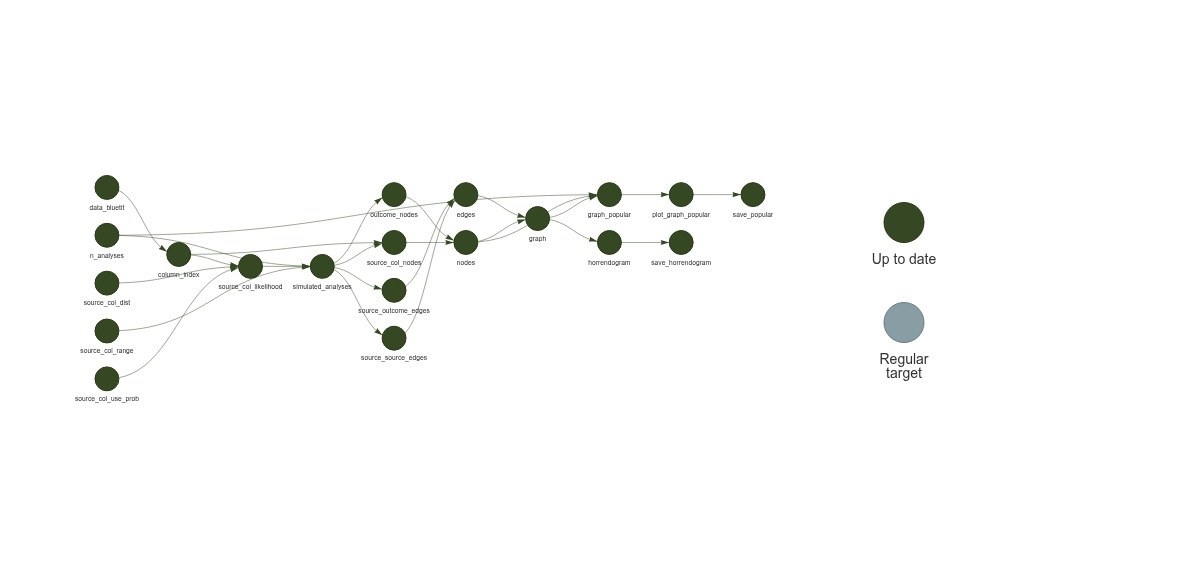
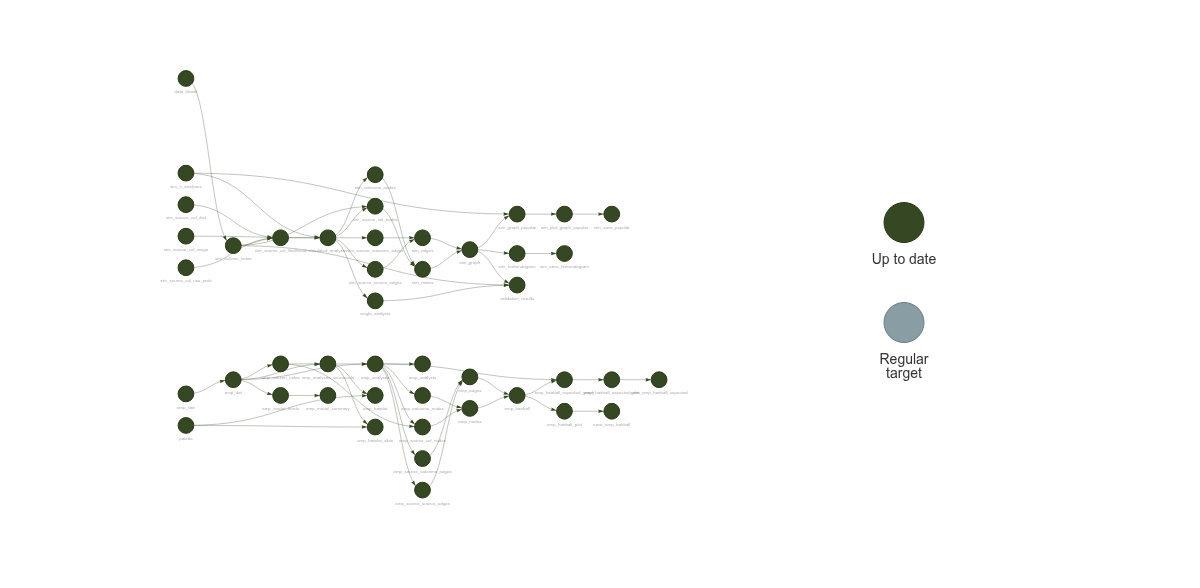
#15 isolated simulation docs now we are developing with real data

diff --git a/vis/pipeline.html b/vis/pipeline.html
@@ -5330,9 +5330,9 @@ HTMLWidgets.widget({
 </head>
 <body style="background-color: white;">
 <div id="htmlwidget_container">
-  <div class="visNetwork html-widget html-fill-item" id="htmlwidget-a8fcb23cf56f81273080" style="width:960px;height:500px;"></div>
+  <div class="visNetwork html-widget html-fill-item" id="htmlwidget-aaece594190543b29e51" style="width:960px;height:500px;"></div>
 </div>
-<script type="application/json" data-for="htmlwidget-a8fcb23cf56f81273080">{"x":{"nodes":{"name":["column_index","data_bluetit","edges","graph","graph_popular","horrendogram","n_analyses","nodes","outcome_nodes","plot_graph_popular","save_horrendogram","save_popular","simulated_analyses","source_col_dist","source_col_likelihood","source_col_nodes","source_col_range","source_col_use_prob","source_outcome_edges","source_source_edges"],"type":["stem","stem","stem","stem","stem","stem","stem","stem","stem","stem","stem","stem","stem","stem","stem","stem","stem","stem","stem","stem"],"description":[null,null,null,null,null,null,null,null,null,null,null,null,null,null,null,null,null,null,null,null],"status":["uptodate","uptodate","uptodate","uptodate","uptodate","uptodate","uptodate","uptodate","uptodate","uptodate","uptodate","uptodate","uptodate","uptodate","uptodate","uptodate","uptodate","uptodate","uptodate","uptodate"],"seconds":[0.002,0.363,0.045,0.004,0.01,0.063,0,0.004,0.014,0.057,0.962,0.749,0.428,0.17,0.013,0.022,0,0,0.026,1.937],"bytes":[624,71603,1104,2062,706,176847,53,761,221,169753,73,68,1655,109,687,709,55,115,1744,3802],"branches":[null,null,null,null,null,null,null,null,null,null,null,null,null,null,null,null,null,null,null,null],"label":["column_index","data_bluetit","edges","graph","graph_popular","horrendogram","n_analyses","nodes","outcome_nodes","plot_graph_popular","save_horrendogram","save_popular","simulated_analyses","source_col_dist","source_col_likelihood","source_col_nodes","source_col_range","source_col_use_prob","source_outcome_edges","source_source_edges"],"color":["#354823","#354823","#354823","#354823","#354823","#354823","#354823","#354823","#354823","#354823","#354823","#354823","#354823","#354823","#354823","#354823","#354823","#354823","#354823","#354823"],"id":["column_index","data_bluetit","edges","graph","graph_popular","horrendogram","n_analyses","nodes","outcome_nodes","plot_graph_popular","save_horrendogram","save_popular","simulated_analyses","source_col_dist","source_col_likelihood","source_col_nodes","source_col_range","source_col_use_prob","source_outcome_edges","source_source_edges"],"level":[2,1,6,7,8,8,1,6,5,9,9,10,4,1,3,5,1,1,5,5],"shape":["dot","dot","dot","dot","dot","dot","dot","dot","dot","dot","dot","dot","dot","dot","dot","dot","dot","dot","dot","dot"]},"edges":{"from":["data_bluetit","source_outcome_edges","source_source_edges","edges","nodes","graph","n_analyses","nodes","graph","outcome_nodes","source_col_nodes","simulated_analyses","graph_popular","horrendogram","plot_graph_popular","n_analyses","source_col_range","source_col_likelihood","column_index","source_col_dist","source_col_use_prob","column_index","simulated_analyses","simulated_analyses","simulated_analyses"],"to":["column_index","edges","edges","graph","graph","graph_popular","graph_popular","graph_popular","horrendogram","nodes","nodes","outcome_nodes","plot_graph_popular","save_horrendogram","save_popular","simulated_analyses","simulated_analyses","simulated_analyses","source_col_likelihood","source_col_likelihood","source_col_likelihood","source_col_nodes","source_col_nodes","source_outcome_edges","source_source_edges"],"color":["#354823","#354823","#354823","#354823","#354823","#354823","#354823","#354823","#354823","#354823","#354823","#354823","#354823","#354823","#354823","#354823","#354823","#354823","#354823","#354823","#354823","#354823","#354823","#354823","#354823"],"arrows":["to","to","to","to","to","to","to","to","to","to","to","to","to","to","to","to","to","to","to","to","to","to","to","to","to"]},"nodesToDataframe":true,"edgesToDataframe":true,"options":{"width":"100%","height":"100%","nodes":{"shape":"dot","physics":false},"manipulation":{"enabled":false},"edges":{"smooth":{"type":"cubicBezier","forceDirection":"horizontal"}},"physics":{"stabilization":false},"interaction":{"zoomSpeed":1},"layout":{"hierarchical":{"enabled":true,"levelSeparation":150,"direction":"LR"}}},"groups":null,"width":null,"height":null,"idselection":{"enabled":false,"style":"width: 150px; height: 26px","useLabels":true,"main":"Select by id"},"byselection":{"enabled":false,"style":"width: 150px; height: 26px","multiple":false,"hideColor":"rgba(200,200,200,0.5)","highlight":false},"main":{"text":"","style":"font-family:Georgia, Times New Roman, Times, serif;font-weight:bold;font-size:20px;text-align:center;"},"submain":null,"footer":null,"background":"rgba(0, 0, 0, 0)","highlight":{"enabled":true,"hoverNearest":false,"degree":{"from":1,"to":1},"algorithm":"hierarchical","hideColor":"rgba(200,200,200,0.5)","labelOnly":true},"collapse":{"enabled":true,"fit":false,"resetHighlight":true,"clusterOptions":null,"keepCoord":true,"labelSuffix":"(cluster)"},"legend":{"width":0.2,"useGroups":false,"position":"right","ncol":1,"stepX":100,"stepY":100,"zoom":true,"nodes":{"label":["Up to date","Regular\ntarget"],"color":["#354823","#899DA4"],"shape":["dot","dot"]},"nodesToDataframe":true},"tooltipStay":300,"tooltipStyle":"position: fixed;visibility:hidden;padding: 5px;white-space: nowrap;font-family: verdana;font-size:14px;font-color:#000000;background-color: #f5f4ed;-moz-border-radius: 3px;-webkit-border-radius: 3px;border-radius: 3px;border: 1px solid #808074;box-shadow: 3px 3px 10px rgba(0, 0, 0, 0.2);"},"evals":[],"jsHooks":[]}</script>
-<script type="application/htmlwidget-sizing" data-for="htmlwidget-a8fcb23cf56f81273080">{"viewer":{"width":450,"height":350,"padding":15,"fill":true},"browser":{"width":960,"height":500,"padding":40,"fill":false}}</script>
+<script type="application/json" data-for="htmlwidget-aaece594190543b29e51">{"x":{"nodes":{"name":["data_bluetit","emp_analyses","emp_analyses_sourcecols","emp_analysts","emp_barplot","emp_barplot_slide","emp_column_index","emp_dat","emp_edges","emp_hairball","emp_hairball_expected_graph","emp_hairball_expected_plot","emp_hairball_plot","emp_model_levels","emp_model_summary","emp_nodes","emp_outcome_nodes","emp_raw","emp_source_col_nodes","emp_source_outcome_edges","emp_source_source_edges","palette","save_emp_hairball","save_emp_hairball_expected","sim_column_index","sim_edges","sim_graph","sim_graph_popular","sim_horrendogram","sim_n_analyses","sim_nodes","sim_outcome_nodes","sim_plot_graph_popular","sim_save_horrendogram","sim_save_popular","sim_source_col_dist","sim_source_col_likelihood","sim_source_col_nodes","sim_source_col_range","sim_source_col_use_prob","sim_source_outcome_edges","sim_source_source_edges","simulated_analyses","single_analysis","validation_results"],"type":["stem","stem","stem","stem","stem","stem","stem","stem","stem","stem","stem","stem","stem","stem","stem","stem","stem","stem","stem","stem","stem","stem","stem","stem","stem","stem","stem","stem","stem","stem","stem","stem","stem","stem","stem","stem","stem","stem","stem","stem","stem","stem","stem","stem","stem"],"description":[null,null,null,null,null,null,null,null,null,null,null,null,null,null,null,null,null,null,null,null,null,null,null,null,null,null,null,null,null,null,null,null,null,null,null,null,null,null,null,null,null,null,null,null,null],"status":["uptodate","uptodate","uptodate","uptodate","uptodate","uptodate","uptodate","uptodate","uptodate","uptodate","uptodate","uptodate","uptodate","uptodate","uptodate","uptodate","uptodate","uptodate","uptodate","uptodate","uptodate","uptodate","uptodate","uptodate","uptodate","uptodate","uptodate","uptodate","uptodate","uptodate","uptodate","uptodate","uptodate","uptodate","uptodate","uptodate","uptodate","uptodate","uptodate","uptodate","uptodate","uptodate","uptodate","uptodate","uptodate"],"seconds":[1.044,0.33,0.026,0.027,1.432,0.758,0.003,0.006,0.044,0.006,0.017,0.193,0.053,0.018,0.002,0.012,0.014,0.904,0.066,0.008,3.849,0.539,1.596,0.6840000000000001,0.003,0.018,0.004,0.007,0.061,0.545,0.004,0.008999999999999999,0.036,0.97,0.328,0.534,0.015,0.02,0,0,0.014,1.298,0.414,0.008,0.042],"bytes":[71603,2209,5124,555,75,75,853,3976,6792,14961,730,194015,264626,376,165,1791,339,3963,1700,2369,6868,115,73,82,624,2190,4913,483,200639,53,1057,221,172362,73,68,109,685,1018,55,112,1759,3902,1690,219,400],"branches":[null,null,null,null,null,null,null,null,null,null,null,null,null,null,null,null,null,null,null,null,null,null,null,null,null,null,null,null,null,null,null,null,null,null,null,null,null,null,null,null,null,null,null,null,null],"label":["data_bluetit","emp_analyses","emp_analyses_sourcecols","emp_analysts","emp_barplot","emp_barplot_slide","emp_column_index","emp_dat","emp_edges","emp_hairball","emp_hairball_expected_graph","emp_hairball_expected_plot","emp_hairball_plot","emp_model_levels","emp_model_summary","emp_nodes","emp_outcome_nodes","emp_raw","emp_source_col_nodes","emp_source_outcome_edges","emp_source_source_edges","palette","save_emp_hairball","save_emp_hairball_expected","sim_column_index","sim_edges","sim_graph","sim_graph_popular","sim_horrendogram","sim_n_analyses","sim_nodes","sim_outcome_nodes","sim_plot_graph_popular","sim_save_horrendogram","sim_save_popular","sim_source_col_dist","sim_source_col_likelihood","sim_source_col_nodes","sim_source_col_range","sim_source_col_use_prob","sim_source_outcome_edges","sim_source_source_edges","simulated_analyses","single_analysis","validation_results"],"color":["#354823","#354823","#354823","#354823","#354823","#354823","#354823","#354823","#354823","#354823","#354823","#354823","#354823","#354823","#354823","#354823","#354823","#354823","#354823","#354823","#354823","#354823","#354823","#354823","#354823","#354823","#354823","#354823","#354823","#354823","#354823","#354823","#354823","#354823","#354823","#354823","#354823","#354823","#354823","#354823","#354823","#354823","#354823","#354823","#354823"],"id":["data_bluetit","emp_analyses","emp_analyses_sourcecols","emp_analysts","emp_barplot","emp_barplot_slide","emp_column_index","emp_dat","emp_edges","emp_hairball","emp_hairball_expected_graph","emp_hairball_expected_plot","emp_hairball_plot","emp_model_levels","emp_model_summary","emp_nodes","emp_outcome_nodes","emp_raw","emp_source_col_nodes","emp_source_outcome_edges","emp_source_source_edges","palette","save_emp_hairball","save_emp_hairball_expected","sim_column_index","sim_edges","sim_graph","sim_graph_popular","sim_horrendogram","sim_n_analyses","sim_nodes","sim_outcome_nodes","sim_plot_graph_popular","sim_save_horrendogram","sim_save_popular","sim_source_col_dist","sim_source_col_likelihood","sim_source_col_nodes","sim_source_col_range","sim_source_col_use_prob","sim_source_outcome_edges","sim_source_source_edges","simulated_analyses","single_analysis","validation_results"],"level":[1,5,4,6,5,5,3,2,7,8,9,10,9,3,4,7,6,1,6,6,6,1,10,11,2,6,7,8,8,1,6,5,9,9,10,1,3,5,1,1,5,5,4,5,8],"shape":["dot","dot","dot","dot","dot","dot","dot","dot","dot","dot","dot","dot","dot","dot","dot","dot","dot","dot","dot","dot","dot","dot","dot","dot","dot","dot","dot","dot","dot","dot","dot","dot","dot","dot","dot","dot","dot","dot","dot","dot","dot","dot","dot","dot","dot"]},"edges":{"from":["emp_analyses_sourcecols","emp_dat","emp_column_index","emp_dat","emp_analyses","emp_analyses_sourcecols","palette","emp_analyses_sourcecols","palette","emp_dat","emp_raw","emp_source_outcome_edges","emp_source_source_edges","emp_nodes","emp_edges","emp_analyses","emp_hairball","emp_hairball_expected_graph","emp_hairball","emp_dat","emp_model_levels","emp_outcome_nodes","emp_source_col_nodes","emp_analyses","emp_analyses","emp_column_index","emp_analyses","emp_analyses","emp_hairball_plot","emp_hairball_expected_plot","data_bluetit","sim_source_outcome_edges","sim_source_source_edges","sim_edges","sim_nodes","sim_graph","sim_n_analyses","sim_graph","sim_source_col_nodes","sim_outcome_nodes","simulated_analyses","sim_graph_popular","sim_horrendogram","sim_plot_graph_popular","sim_column_index","sim_source_col_dist","sim_source_col_use_prob","simulated_analyses","sim_column_index","simulated_analyses","simulated_analyses","sim_n_analyses","sim_source_col_likelihood","sim_source_col_range","simulated_analyses","sim_column_index","sim_graph","single_analysis"],"to":["emp_analyses","emp_analyses","emp_analyses_sourcecols","emp_analyses_sourcecols","emp_analysts","emp_barplot","emp_barplot","emp_barplot_slide","emp_barplot_slide","emp_column_index","emp_dat","emp_edges","emp_edges","emp_hairball","emp_hairball","emp_hairball_expected_graph","emp_hairball_expected_graph","emp_hairball_expected_plot","emp_hairball_plot","emp_model_levels","emp_model_summary","emp_nodes","emp_nodes","emp_outcome_nodes","emp_source_col_nodes","emp_source_col_nodes","emp_source_outcome_edges","emp_source_source_edges","save_emp_hairball","save_emp_hairball_expected","sim_column_index","sim_edges","sim_edges","sim_graph","sim_graph","sim_graph_popular","sim_graph_popular","sim_horrendogram","sim_nodes","sim_nodes","sim_outcome_nodes","sim_plot_graph_popular","sim_save_horrendogram","sim_save_popular","sim_source_col_likelihood","sim_source_col_likelihood","sim_source_col_likelihood","sim_source_col_nodes","sim_source_col_nodes","sim_source_outcome_edges","sim_source_source_edges","simulated_analyses","simulated_analyses","simulated_analyses","single_analysis","validation_results","validation_results","validation_results"],"color":["#354823","#354823","#354823","#354823","#354823","#354823","#354823","#354823","#354823","#354823","#354823","#354823","#354823","#354823","#354823","#354823","#354823","#354823","#354823","#354823","#354823","#354823","#354823","#354823","#354823","#354823","#354823","#354823","#354823","#354823","#354823","#354823","#354823","#354823","#354823","#354823","#354823","#354823","#354823","#354823","#354823","#354823","#354823","#354823","#354823","#354823","#354823","#354823","#354823","#354823","#354823","#354823","#354823","#354823","#354823","#354823","#354823","#354823"],"arrows":["to","to","to","to","to","to","to","to","to","to","to","to","to","to","to","to","to","to","to","to","to","to","to","to","to","to","to","to","to","to","to","to","to","to","to","to","to","to","to","to","to","to","to","to","to","to","to","to","to","to","to","to","to","to","to","to","to","to"]},"nodesToDataframe":true,"edgesToDataframe":true,"options":{"width":"100%","height":"100%","nodes":{"shape":"dot","physics":false},"manipulation":{"enabled":false},"edges":{"smooth":{"type":"cubicBezier","forceDirection":"horizontal"}},"physics":{"stabilization":false},"interaction":{"zoomSpeed":1},"layout":{"hierarchical":{"enabled":true,"levelSeparation":150,"direction":"LR"}}},"groups":null,"width":null,"height":null,"idselection":{"enabled":false,"style":"width: 150px; height: 26px","useLabels":true,"main":"Select by id"},"byselection":{"enabled":false,"style":"width: 150px; height: 26px","multiple":false,"hideColor":"rgba(200,200,200,0.5)","highlight":false},"main":{"text":"","style":"font-family:Georgia, Times New Roman, Times, serif;font-weight:bold;font-size:20px;text-align:center;"},"submain":null,"footer":null,"background":"rgba(0, 0, 0, 0)","highlight":{"enabled":true,"hoverNearest":false,"degree":{"from":1,"to":1},"algorithm":"hierarchical","hideColor":"rgba(200,200,200,0.5)","labelOnly":true},"collapse":{"enabled":true,"fit":false,"resetHighlight":true,"clusterOptions":null,"keepCoord":true,"labelSuffix":"(cluster)"},"legend":{"width":0.2,"useGroups":false,"position":"right","ncol":1,"stepX":100,"stepY":100,"zoom":true,"nodes":{"label":["Up to date","Regular\ntarget"],"color":["#354823","#899DA4"],"shape":["dot","dot"]},"nodesToDataframe":true},"tooltipStay":300,"tooltipStyle":"position: fixed;visibility:hidden;padding: 5px;white-space: nowrap;font-family: verdana;font-size:14px;font-color:#000000;background-color: #f5f4ed;-moz-border-radius: 3px;-webkit-border-radius: 3px;border-radius: 3px;border: 1px solid #808074;box-shadow: 3px 3px 10px rgba(0, 0, 0, 0.2);"},"evals":[],"jsHooks":[]}</script>
+<script type="application/htmlwidget-sizing" data-for="htmlwidget-aaece594190543b29e51">{"viewer":{"width":450,"height":350,"padding":15,"fill":true},"browser":{"width":960,"height":500,"padding":40,"fill":false}}</script>
 </body>
 </html>

diff --git a/README.md b/README.md
@@ -4,17 +4,22 @@ This project explores graphical analyses of how different analysts might decompo
 
 A graph is a network determined by *nodes* and *edges*.
 
-The simulation provides us with a way of **exploring** *before any lengthy extraction of data*:
-
-- what kinds of visualisations might be useful to illustrate the diversity of analytic question decomposition;
-- what kinds of graph structures emerge from the decomposition process;
-- what data we need to extract and how it should be structured.
-
-## minimal representations of core results
+## Minimal Representations of Core Results
 
 The goal is to explore **minimal representations that faithfully align with the experiment's core results, privileging interpretability**. 
 
-## graph visualisations
+## Eucalypt Analysis
+
+The main analysis pipeline uses the eucalypt many-analysts dataset.
+
+Inspect the eucalypt data analysis:
+
+```r
+targets::tar_make()
+tar_visnetwork(names = starts_with("emp"), targets_only = TRUE)
+```
+
+## Graph Visualisations
 
 Graph visualisations illustrate the diversity of how analysts decompose. This project explores different graph presentations. 
 
@@ -22,75 +27,10 @@ We are using [`ggraph`](https://ggraph.data-imaginist.com/) to create the visual
 
 > Todo: add caption highlighting most-popular source columns and outcomes
 
-### all analyses graph
+## Simulation Study
 
-![](vis/horrendogram.png)
+The simulation study was used during development to explore graph structures before real data extraction. 
 
-### popular analyses graph
+📄 **[Full simulation documentation](docs/simulation-study.md)**
 
-![](vis/popular.png)
-
-## simulation study for analytic question decomposition
-
-The targets pipeline simulates how different analysts might use source columns to decompose the given domain question into an analytic question with the same data (in terms of source columns).
-
-To inspect the pipeline using the (installed) `targets` package, you need to run the full simulation pipeline.
-
-```r
-targets::tar_make()
-```  
-
-Inspect the simulation design.
-
-```r
-targets::tar_visnetwork(targets_only = TRUE)
-```
-![](vis/pipeline.png)
-
-Inspect the built pipeline graph.
-
-```r
-targets::tar_visnetwork()
-``` 
-
-Inspect a specific pipeline object.
-
-```r
-targets::tar_read(simulated_analyses)
-``` 
-
-Finally, if you're feeling playful, change the simulation parameters by modifying the `_targets.R` file which calls functions from `R/`.
-
-The `poc/poc.R` file is the original script where the simulation was prototyped from `poc/analytic_question.md`.
-
-## graph structure
-
-- nodes: 
-  - shaped by:
-    - source columns
-    - (transformations on source columns, not in first pass)
-    - outcome distributions
-  - sized by: number of analyses that used that variable
-  - (future: sizing/colouring by pooled significance and/or effect size, but unlikely to be easily extractable from this experiment)
-
-- edges connect nodes within an analysis, linetype by:
-  - **from source → to outcome** weighted by number of analyses that used that source column to derive outcome
-  - **between source columns** weighted by number of analyses that used both source columns
-  - (future extension possibility: source → transformation → outcome edges, but not in first pass)
-- we will explore fans, weight, or alpha in the visualisation for edge density
-
-## validation
-
-Open `validation/validate_graph.html` in your browser to inspect the validation report for the graph structure.
-
-## extensibility
-
-A final note, this simulation is readily extensible to other analytic questions by swapping out the dataset read and tweaking expected parameter objects in the pipeline. 
-
-## Eucalypt analysis
-
-Inspect the eucalypt data analysis
-
-```r
-tar_visnetwork(names = starts_with("emp"), targets_only = TRUE)
-```
+The simulation pipeline is modularised in [`R/simulation_factory_targets.R`](R/simulation_factory_targets.R) and can be enabled by uncommenting the relevant line in `_targets.R`.

diff --git a/docs/simulation-study.md b/docs/simulation-study.md
@@ -1,0 +1,100 @@
+# Simulation Study for Analytic Question Decomposition
+
+> **Note:** The simulation pipeline has been modularised and is now located in [`R/simulation_factory_targets.R`](../R/simulation_factory_targets.R). This was the original development approach before real data became available.
+
+The simulation provides us with a way of **exploring** *before any lengthy extraction of data*:
+
+- what kinds of visualisations might be useful to illustrate the diversity of analytic question decomposition;
+- what kinds of graph structures emerge from the decomposition process;
+- what data we need to extract and how it should be structured.
+
+## Running the Simulation
+
+To run the simulation pipeline, first uncomment the simulation factory call in `_targets.R`:
+
+```r
+# simulation factory (modularised in R/simulation_factory_targets.R) ----
+get_simulation_factory_targets(),  # <- uncomment this line
+```
+
+Then run the pipeline:
+
+```r
+targets::tar_make()
+```  
+
+## Inspecting the Pipeline
+
+Inspect the simulation design:
+
+```r
+targets::tar_visnetwork(targets_only = TRUE)
+```
+
+![](../vis/pipeline.png)
+
+Inspect the built pipeline graph:
+
+```r
+targets::tar_visnetwork()
+``` 
+
+Inspect a specific pipeline object:
+
+```r
+targets::tar_read(simulated_analyses)
+``` 
+
+## Simulation Parameters
+
+The simulation is controlled by parameters defined in `R/simulation_factory_targets.R`:
+
+- `sim_n_analyses`: Number of analyses to simulate (default 142, matching bluetit dataset)
+- `sim_source_col_range`: Range of source columns per analysis (default 4-15)
+- `sim_source_col_dist`: Distribution of column usage frequency
+- `sim_source_col_use_prob`: Probability weights for column selection
+
+## Graph Visualisations
+
+Graph visualisations illustrate the diversity of how analysts decompose. 
+
+### All Analyses Graph
+
+![](../vis/horrendogram.png)
+
+### Popular Analyses Graph
+
+![](../vis/popular.png)
+
+## Graph Structure
+
+- **nodes**: 
+  - shaped by:
+    - source columns
+    - (transformations on source columns, not in first pass)
+    - outcome distributions
+  - sized by: number of analyses that used that variable
+  - (future: sizing/colouring by pooled significance and/or effect size, but unlikely to be easily extractable from this experiment)
+
+- **edges** connect nodes within an analysis, linetype by:
+  - **from source → to outcome** weighted by number of analyses that used that source column to derive outcome
+  - **between source columns** weighted by number of analyses that used both source columns
+  - (future extension possibility: source → transformation → outcome edges, but not in first pass)
+- we will explore fans, weight, or alpha in the visualisation for edge density
+
+## Validation
+
+Open [`validation/validate_graph.html`](../validation/validate_graph.html) in your browser to inspect the validation report for the graph structure.
+
+## Extensibility
+
+This simulation is readily extensible to other analytic questions by swapping out the dataset read and tweaking expected parameter objects in the pipeline. 
+
+## Updating Pipeline Visualisation
+
+To regenerate the pipeline visualisation PNG:
+
+```r
+source("R/save_pipeline_visnetwork.R")
+save_pipeline_visnetwork()
+```
